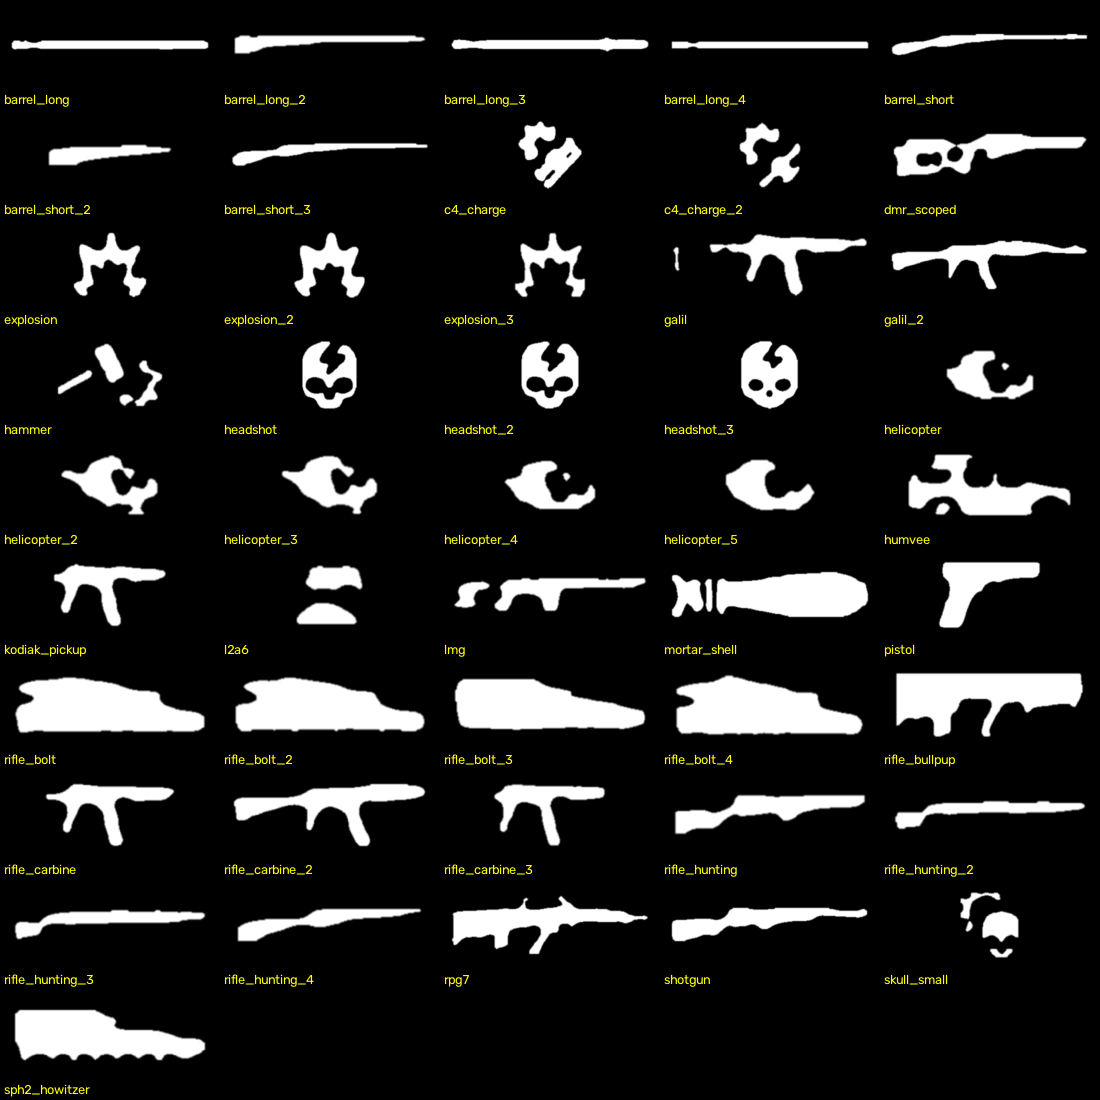
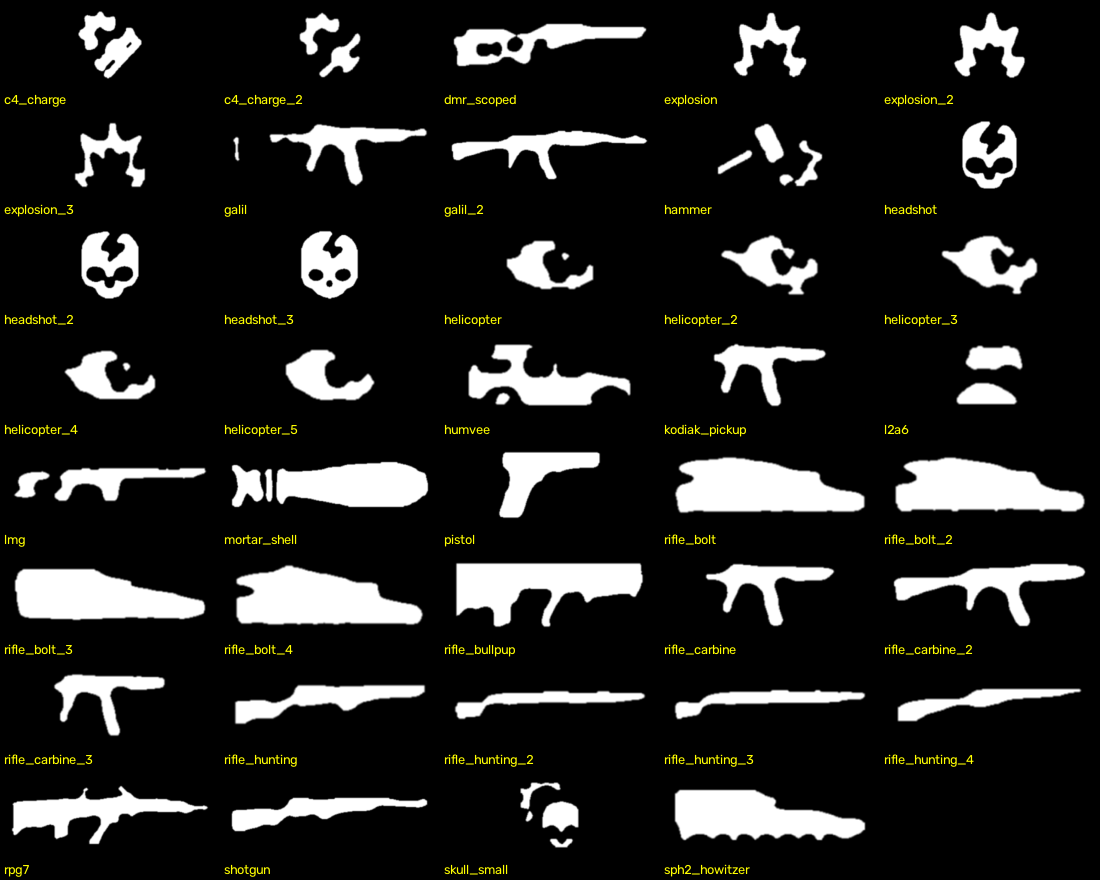
VOD event scanner; drop barrel fragments from the catalogue

diff --git a/tools/scan_vod.py b/tools/scan_vod.py
@@ -1,0 +1,120 @@
+"""Scan whole VODs for every kind of kill-feed event.
+
+  python tools/scan_vod.py vod/*.mp4 --fps 2 --out scan/
+
+Per sampled frame: crop the feed strip, segment rows, match icons (templates/) on the white
+mask and read the killer/victim colour. Consecutive frames with the same icon set in the same
+slot are one event. Writes:
+  scan/events.csv        t, video, slot, icons, killer colour, victim colour, duration
+  scan/summary.txt       every icon combination with count and example times
+  scan/examples/<combo>_<n>.png   a colour crop of the row for each combination
+  scan/unknown/          white icon blobs that match no template at >= 0.5 (new event types)
+No OCR (too slow for hours of footage); names are not read, only icons and colours.
+"""
+import argparse
+import csv
+import glob
+import os
+import sys
+from collections import defaultdict
+
+import cv2
+import numpy as np
+
+sys.path.insert(0, os.path.join(os.path.dirname(os.path.abspath(__file__)), ".."))
+from ocr import binarize, segment_rows, SCALE, ICON_COL, NAME_COL, load_templates, _scores, match_icons  # noqa: E402
+from colors import measure, classify  # noqa: E402
+
+ROI = dict(x=0.0, y=0.42, w=0.24, h=0.16)
+
+
+def scan(path, fps_target, out, events, combos, unknown):
+    v = cv2.VideoCapture(path)
+    fps, n = v.get(cv2.CAP_PROP_FPS), int(v.get(cv2.CAP_PROP_FRAME_COUNT))
+    step = max(1, int(round(fps / fps_target)))
+    name = os.path.splitext(os.path.basename(path))[0]
+    active = {}                         # slot index -> dict(combo, t0, last, kc, vc, crop)
+    tmpl = [t for t in load_templates() if not t.startswith("name_")]
+    for f in range(0, n, step):
+        v.set(cv2.CAP_PROP_POS_FRAMES, f)
+        ok, fr = v.read()
+        if not ok:
+            break
+        t = f / fps
+        H, W = fr.shape[:2]
+        roi = fr[int(H * ROI["y"]):int(H * (ROI["y"] + ROI["h"])), int(W * ROI["x"]):int(W * (ROI["x"] + ROI["w"]))]
+        up = cv2.resize(roi, None, fx=SCALE, fy=SCALE, interpolation=cv2.INTER_CUBIC)
+        hsv = cv2.cvtColor(up, cv2.COLOR_BGR2HSV)
+        white = ((hsv[:, :, 2] > 170) & (hsv[:, :, 1] < 70)).astype(np.uint8) * 255
+        _, mask = binarize(roi)
+        Wu = up.shape[1]
+        seen = set()
+        for y0, y1 in segment_rows(mask):
+            slot = int(round((y0 - 46) / 24))               # feed rows sit 24 px apart from y~46
+            Y0, Y1 = y0 * SCALE, y1 * SCALE
+            band = white[Y0:Y1, int(Wu * ICON_COL[0]):int(Wu * ICON_COL[1])]
+            icons = match_icons(band)
+            if not icons:
+                # anything icon-like that no template explains -> unknown pile
+                s = _scores(band, tmpl)
+                if band.sum() // 255 > 300 and (not s or max(s.values()) < 0.5):
+                    k = len(unknown)
+                    if k < 400:
+                        cv2.imwrite(os.path.join(out, "unknown", f"{name}_{t:07.1f}_{slot}.png"), roi[y0:y1])
+                        unknown.append((name, t))
+                continue
+            combo = "+".join(sorted(icons))
+            kc = classify(measure(hsv[Y0:Y1, :int(Wu * NAME_COL[1])], mask[Y0:Y1, :int(Wu * NAME_COL[1])]))
+            vc = classify(measure(hsv[Y0:Y1, int(Wu * 0.5):], mask[Y0:Y1, int(Wu * 0.5):]))
+            seen.add(slot)
+            a = active.get(slot)
+            if a and a["combo"] == combo:
+                a["last"] = t
+                continue
+            if a:
+                _close(a, name, slot, events, combos, out)
+            active[slot] = dict(combo=combo, t0=t, last=t, kc=kc, vc=vc, crop=roi[y0:y1].copy())
+        for slot in list(active):
+            if slot not in seen and t - active[slot]["last"] > 0.6:
+                _close(active.pop(slot), name, slot, events, combos, out)
+        if f % (step * 600) == 0:
+            print(f"  {name} {t/60:6.1f} min  events={len(events)} combos={len(combos)} unknown={len(unknown)}", flush=True)
+    for slot in list(active):
+        _close(active.pop(slot), name, slot, events, combos, out)
+
+
+def _close(a, name, slot, events, combos, out):
+    if a["last"] - a["t0"] < 0.75:                      # < 3 frames: noise
+        return
+    events.append([round(a["t0"], 1), name, slot, a["combo"], a["kc"], a["vc"], round(a["last"] - a["t0"], 1)])
+    c = combos[a["combo"]]
+    c["n"] += 1
+    if len(c["ex"]) < 6:
+        c["ex"].append(f"{name}@{int(a['t0']//3600)}h{int(a['t0']%3600//60):02d}m{int(a['t0']%60):02d}s")
+        cv2.imwrite(os.path.join(out, "examples", f"{a['combo']}_{c['n']}.png"),
+                    cv2.resize(a["crop"], None, fx=3, fy=3, interpolation=cv2.INTER_CUBIC))
+
+
+def main():
+    ap = argparse.ArgumentParser()
+    ap.add_argument("videos", nargs="+")
+    ap.add_argument("--fps", type=float, default=2.0)
+    ap.add_argument("--out", default="scan")
+    a = ap.parse_args()
+    for d in ("", "examples", "unknown"):
+        os.makedirs(os.path.join(a.out, d), exist_ok=True)
+    events, combos, unknown = [], defaultdict(lambda: dict(n=0, ex=[])), []
+    for p in sorted(sum((glob.glob(x) for x in a.videos), [])):
+        print(p, flush=True)
+        scan(p, a.fps, a.out, events, combos, unknown)
+    with open(os.path.join(a.out, "events.csv"), "w", newline="") as f:
+        w = csv.writer(f); w.writerow(["t_s", "video", "slot", "icons", "killer_colour", "victim_colour", "visible_s"]); w.writerows(events)
+    with open(os.path.join(a.out, "summary.txt"), "w") as f:
+        for combo, c in sorted(combos.items(), key=lambda kv: -kv[1]["n"]):
+            f.write(f"{c['n']:5}  {combo:32}  e.g. {', '.join(c['ex'])}\n")
+        f.write(f"\n{len(events)} events, {len(combos)} icon combinations, {len(unknown)} unknown icon rows saved\n")
+    print(open(os.path.join(a.out, "summary.txt")).read())
+
+
+if __name__ == "__main__":
+    main()

diff --git a/tools/build_catalogue.py b/tools/build_catalogue.py
@@ -24,7 +24,7 @@ os.makedirs(OUT, exist_ok=True)
 labels = json.load(open(os.path.join(ROOT, "labels.json")))
 groups = {}
 for icon_id, label in labels.items():
-    if icon_id.startswith("_") or label in ("?", "text", ""):
+    if icon_id.startswith("_") or label in ("?", "text", "fragment", ""):
         continue
     p = os.path.join(SRC, icon_id + ".png")
     if os.path.exists(p):
